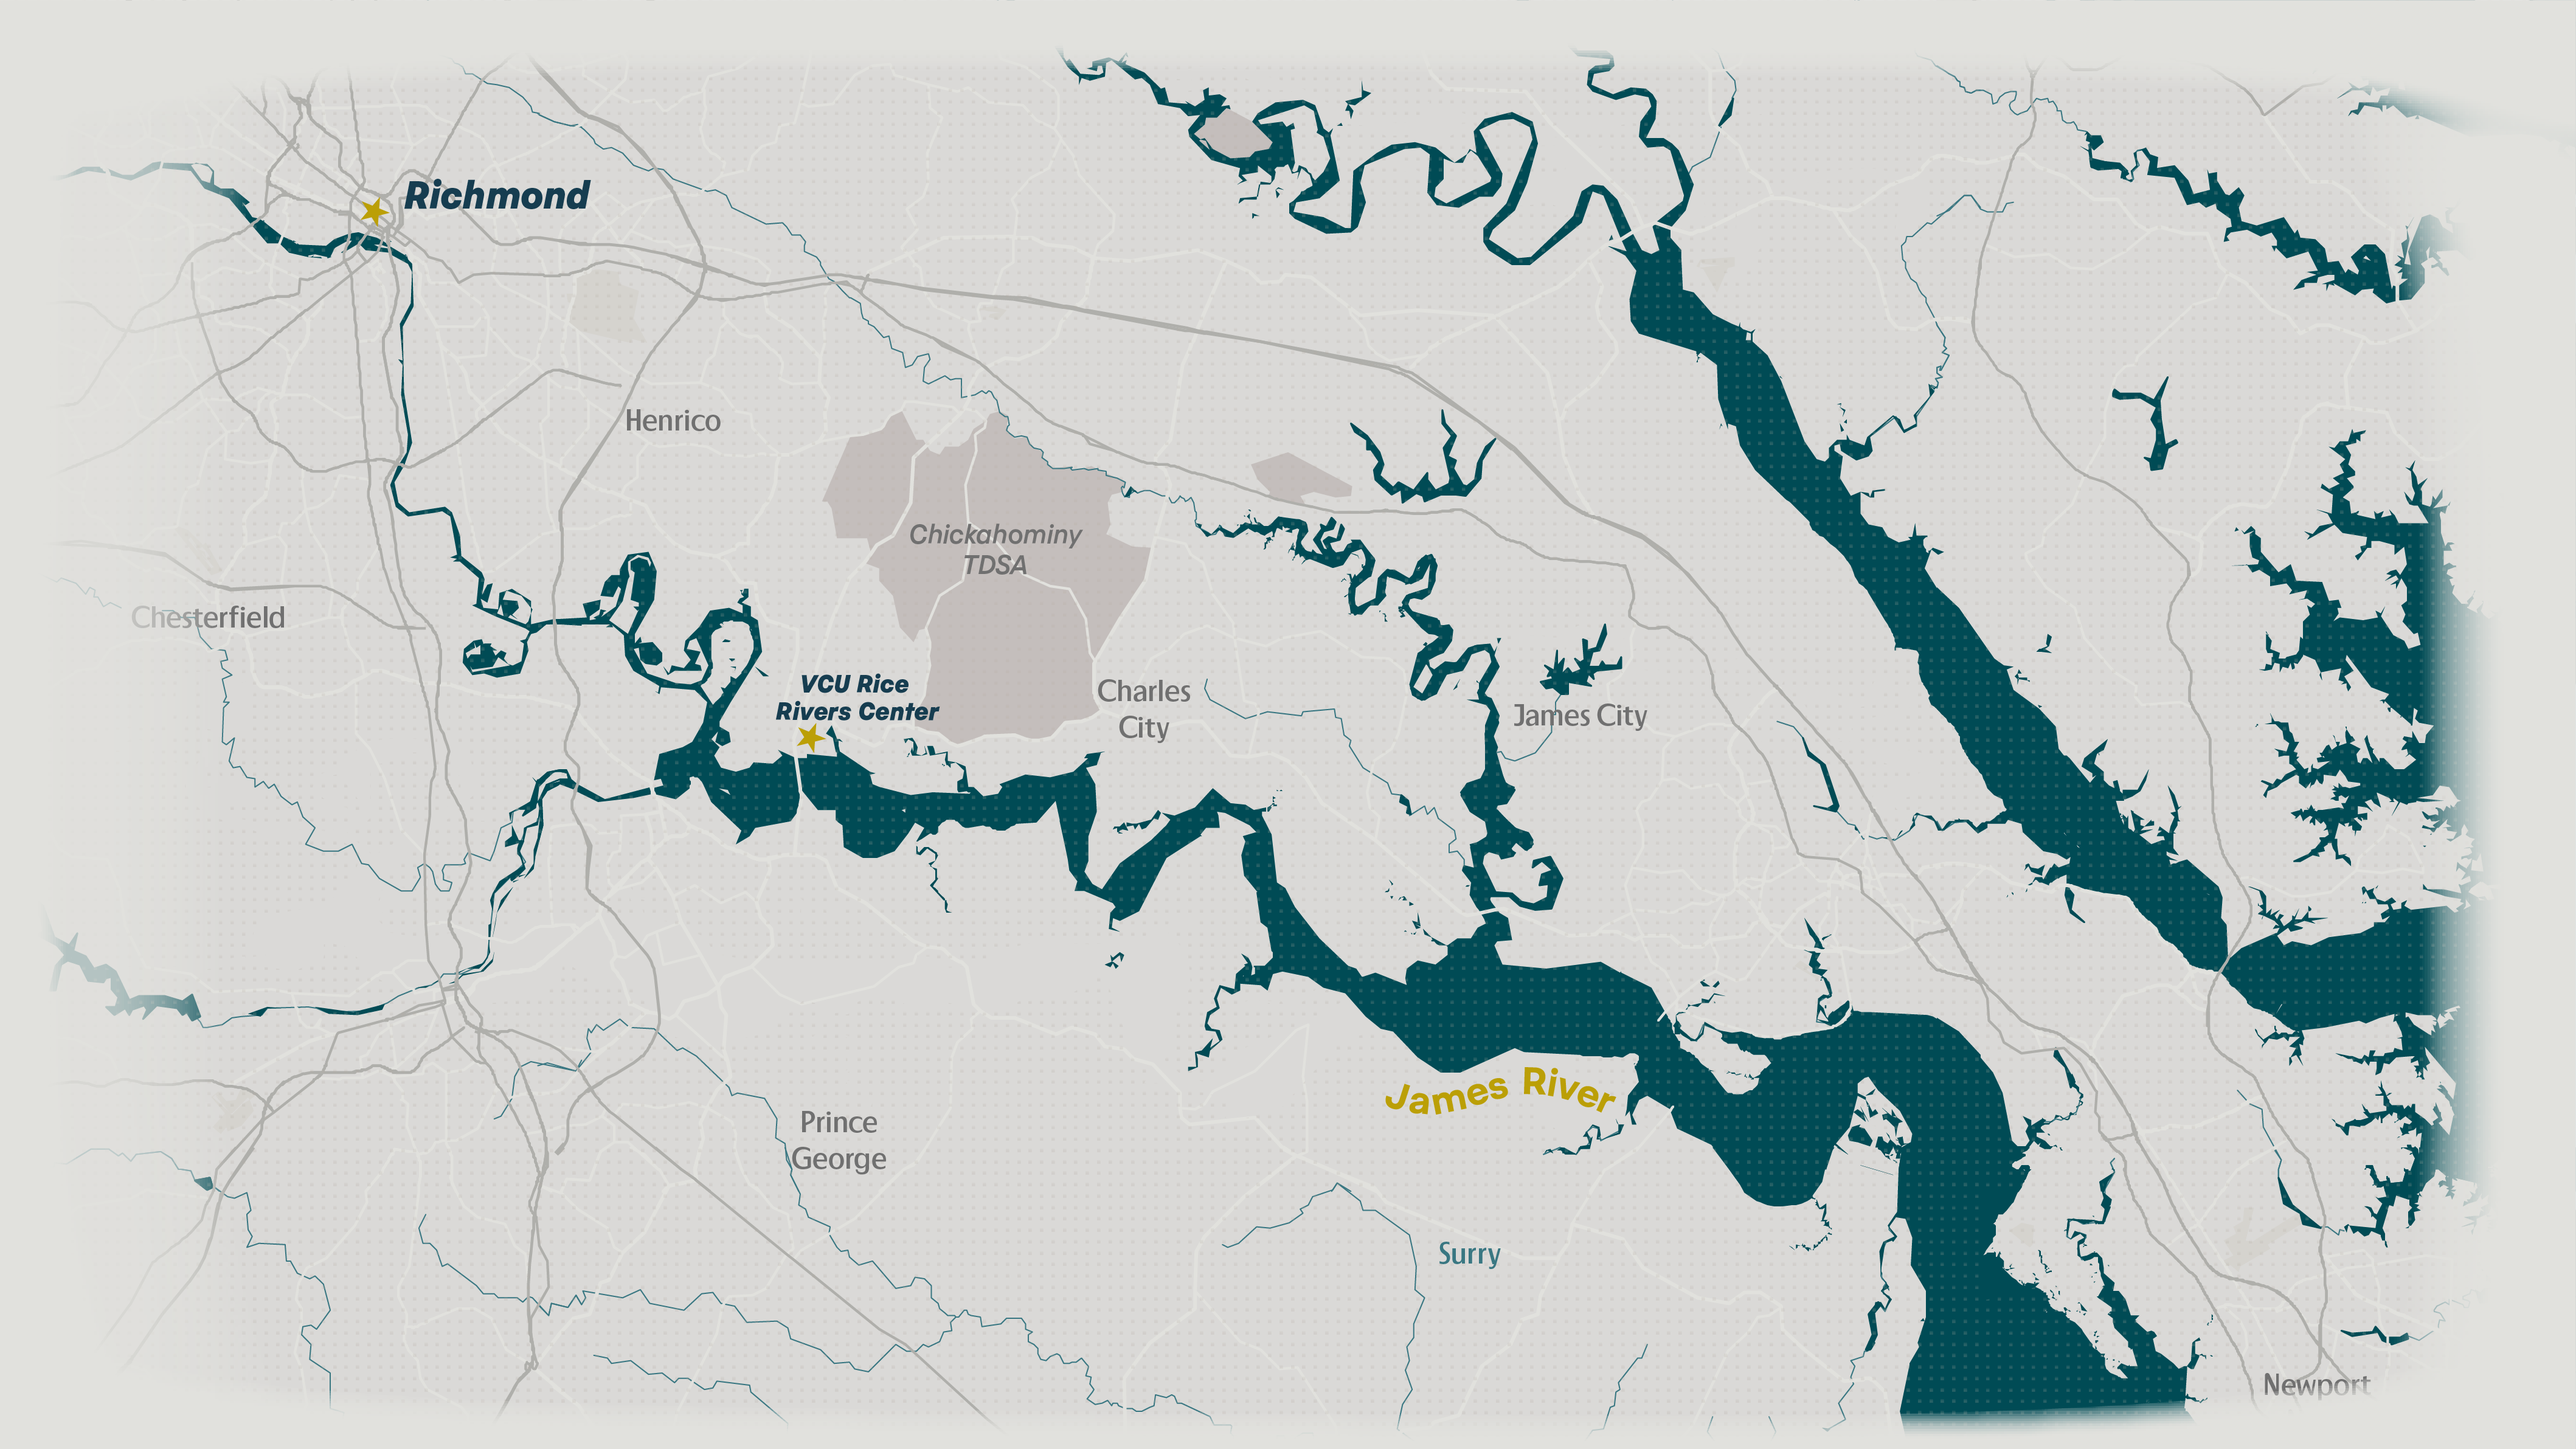
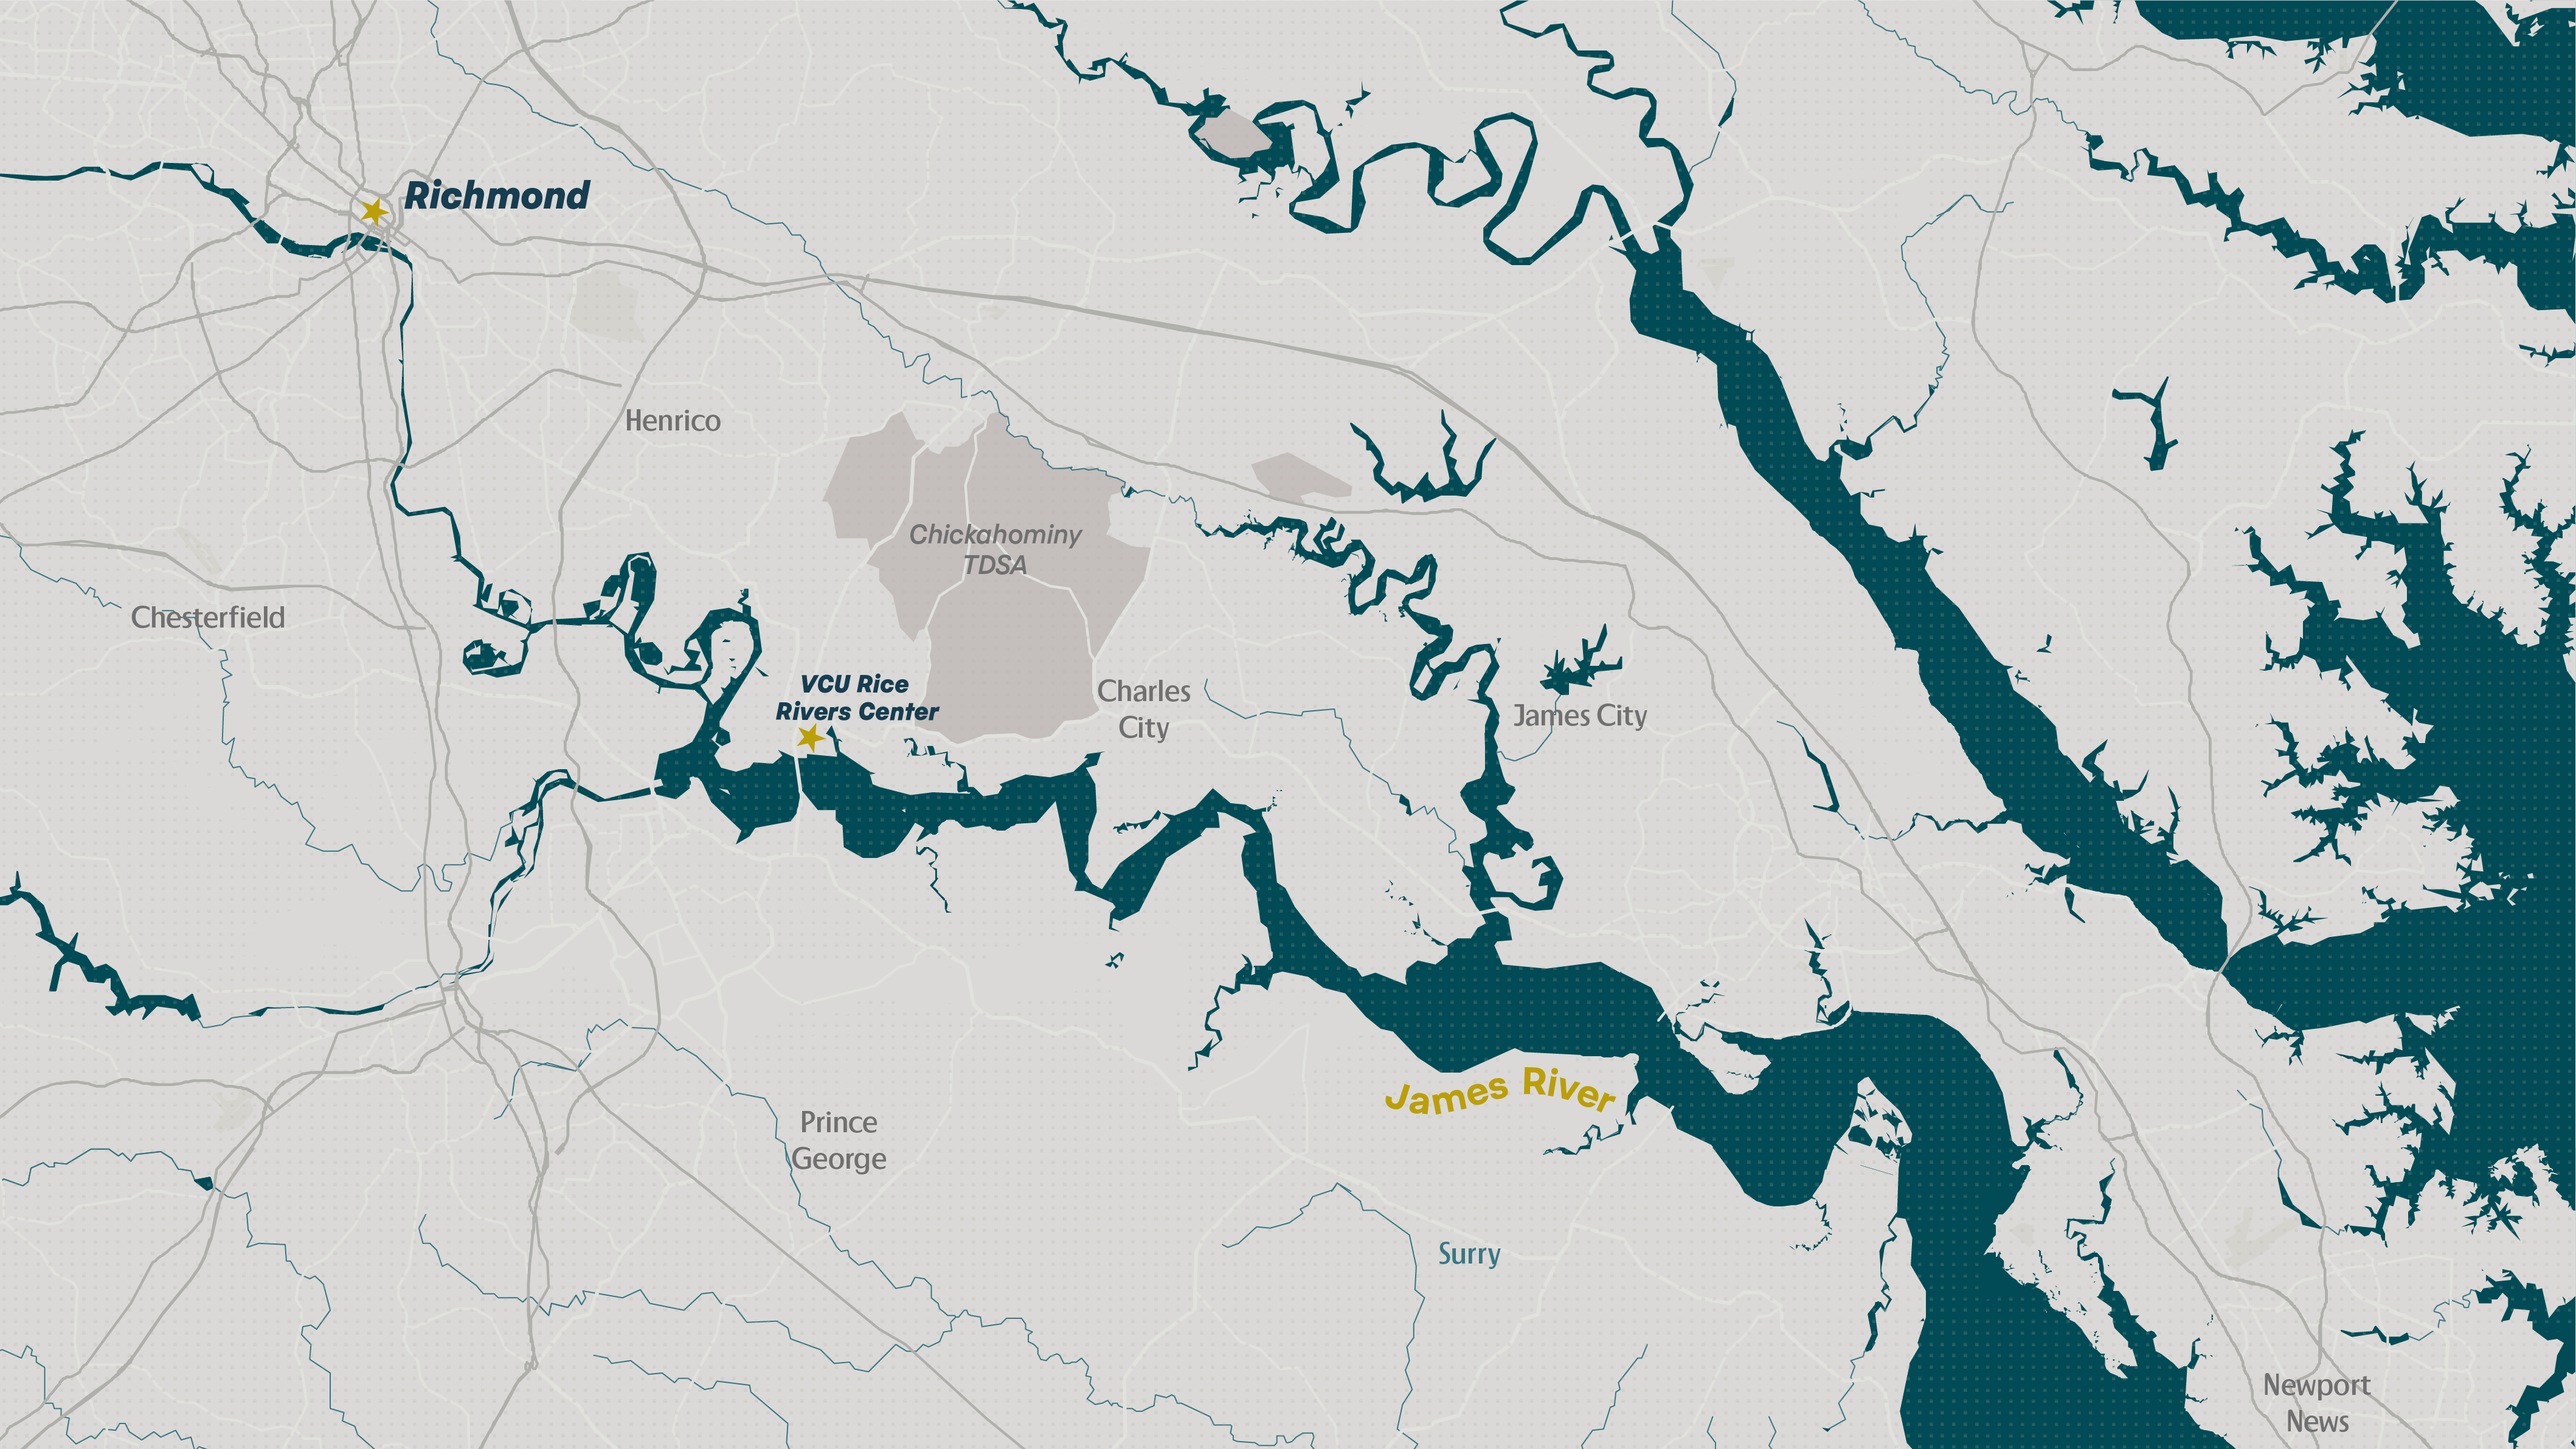
Rewrote UI code to utilize flexbox layout

diff --git a/scripts/Application/styles.css b/scripts/Application/styles.css
@@ -1,10 +1,75 @@
 body {
-    width: 1200px;
-    margin: 0 auto;
+    font-family: "Merriweather", serif;
+    color: #5F5F5F;
+    font-optical-sizing: auto;
+}
+
+h1 {
+    text-align: center;
+    color: #fefefd;
+    margin: 0;
+    font-size: 50px;
+}
+
+h2 {
+    margin: 20px;
+    text-transform: uppercase;
+    letter-spacing: 1px;
+    font-weight: normal;
+    text-align: center;
+}
+
+p {
+    margin: 20px;
+}
+
+ul {
+    margin: 20px;
+}
+
+content {
+    display: flex;
+    flex-direction: row;
+    flex-wrap: wrap;
+}
+
+map-content {
+    /* Grows to fill available space, shrinks if needed, base width 0 */
+    flex: 5 4 0px; 
+    min-width: 700px; /* Optional: prevents map-content from becoming too narrow before wrap */
+    position: relative;
+    box-sizing: border-box;
+    margin: 20px;
+    padding: 15px;
+    gap: 16px;
+    backdrop-filter: blur(8px);
+    border-radius: 10px;
+    box-shadow: 0 8px 24px rgba(0, 0, 0, 0.2);
+    border: 1px solid rgba(220, 220, 220, 0.8);
+    align-self: flex-start;
+    background-color: #fefefd;
+}
+
+card-content {
+    /* Grows (1), shrinks (1), but starts at a base width of 250px */
+    flex: 1 1 150px;
+    backdrop-filter: blur(8px);
+    border-radius: 10px;
+    box-shadow: 0 8px 24px rgba(0, 0, 0, 0.2);
+    border: 1px solid rgba(220, 220, 220, 0.8);
+    margin: 20px;
+    padding: 20px;
+    gap: 16px;
+    background-color: #fefefd;
+    display: flex;
+    flex-direction: column;
+    align-items: center;
 }
 
 /* Dropdown styling inside card */
 #selectSturgeon {
+    padding: 10px;
+    width: 50%;
     font-size: 14px;
     border-radius: 6px;
     border: 1px solid #ccc;
@@ -28,7 +93,13 @@ body {
 }
 
 #play-button {
-    background: linear-gradient(135deg, #397782 0%, #2F5E66 100%);
+    justify-content: center;
+    gap: 8px;
+    width: 50%;
+    margin-top: 16px;
+    padding: 12px 20px;
+
+    background: linear-gradient(135deg, #BB9F06 0%, #998305 100%);
     color: #ffffff;
     font-family: inherit;
     font-size: 14px;
@@ -36,54 +107,64 @@ body {
     letter-spacing: 0.3px;
     
     border: none;
+    margin: 20px;
     border-radius: 8px;
     cursor: pointer;
-    box-shadow: 0 4px 12px #45929F;
+    box-shadow: 0 4px 8px #e0c007;
     
     transition: all 0.2s cubic-bezier(0.4, 0, 0.2, 1);
 }
 
 #play-button:hover {
-    background: linear-gradient(135deg, #45929F 0%, #397782 100%);
-    box-shadow: 0 6px 16px #45929F;
+    background: linear-gradient(135deg, #e0c007 0%, #BB9F06 100%);
+    box-shadow: 0 6px 10px #e0c007;
     transform: translateY(-1px);
 }
 
 #play-button:active {
     transform: translateY(0);
-    box-shadow: 0 2px 6px #45929F;
+    box-shadow: 0 2px 6px #e0c007;
 }
 
 #play-button:focus-visible {
-    outline: 2px solid #45929F;
+    outline: 2px solid #e0c007;
     outline-offset: 2px;
 }
 
 
 #the-graphic {
-    background-color: #e1e1dd;
+    background-color: #2F5E66;
 }
 
 
 .the-dateline {
-    font-size: 15px;
     color: #5F5F5F;
     background-color: #e1e1dd;
-    top: 7%;
-    left: 33%;
+    top: 10%;
     box-shadow: 0px 0px 12px 12px rgba(225, 225, 221, 1);
     border-radius: 30px;
+    position: absolute;
+    top: 15%;  /* position the top  edge of the element at the middle of the parent */
+    left: 50%; /* position the left edge of the element at the middle of the parent */
+
+    transform: translate(-50%, -50%); /* This is a shorthand of
+                                         translateX(-50%) and translateY(-50%) */
+    text-align: center;
 }
 
 .dateline-date {
     font-weight: bold;
-    font-size: 28px;
+    font-size: 18px;
+}
+
+.singular-mode .dateline-date {
+    color: #b0413e;
 }
 
 .dateline-label {
     text-transform: uppercase;
     letter-spacing: 1px;
-    font-size: 22px;
+    font-size: 15px;
 }
 
 .singular-mode {

diff --git a/scripts/Application/sturgeon-d3.html b/scripts/Application/sturgeon-d3.html
@@ -7,35 +7,38 @@
 		<script type="text/javascript" src="../../lodash.js"></script>
 		<script type="text/javascript" src="../../jquery.js"></script>
 		<link rel="stylesheet" type="text/css" href="styles.css" media="screen" />
+		<link rel="preconnect" href="https://fonts.googleapis.com">
+		<link rel="preconnect" href="https://fonts.gstatic.com" crossorigin>
+		<link href="https://fonts.googleapis.com/css2?family=Merriweather:ital,opsz,wght@0,18..144,300..900;1,18..144,300..900&display=swap" rel="stylesheet">	
 	</head>
-	<body>
+	<body id="the-graphic" class="in-cumulative">
+		<div id="tooltip"></div>
+		
+		<h1>Atlantic Sturgeon Tracker</h1>
 
-		<div id="the-graphic" class="in-cumulative">
+		<content>
 
-			<h1>Atlantic Sturgeon Tracker</h1>
+			<map-content>
+				<div id="map-container"></div>
+				<div class="the-dateline singular-mode">
+					<span class="dateline-label">Sturgeon Movement on </span>
+					<div class="dateline-date"> </div>
+				</div>
+				<div class="the-dateline cumulative-mode">
+					<span class="dateline-label">Sturgeon Movement</span>
+					<div class="dateline-date"> </div>
+				</div>
+			</map-content>
 
-			<div id="map-container"></div>
+			<card-content>
+				<h2>Sturgeon Selection</h2>
+				<select id="selectSturgeon"></select>		
+				<div id="card-content"></div>
+			</card-content>
 
-			<div id="tooltip"></div>
+		</content>
 
-			<h2>Sturgeon Selection</h2>
-
-			<div class="the-dateline singular-mode">
-				<span class="dateline-label">Sturgeon Movement on </span>
-				<div class="dateline-date"> </div>
-			</div>
-
-			<div class="the-dateline cumulative-mode">
-				<span class="dateline-label">Sturgeon Movement</span>
-				<div class="dateline-date"> </div>
-			</div>
-
-			<select id="selectSturgeon"></select>
-					
-			<div id="card-content"></div>
-
-			<script type="text/javascript" src="sturgeon.js"></script>
-		</div>
+		<script type="text/javascript" src="sturgeon.js"></script>
 
     </body>
 </html>
